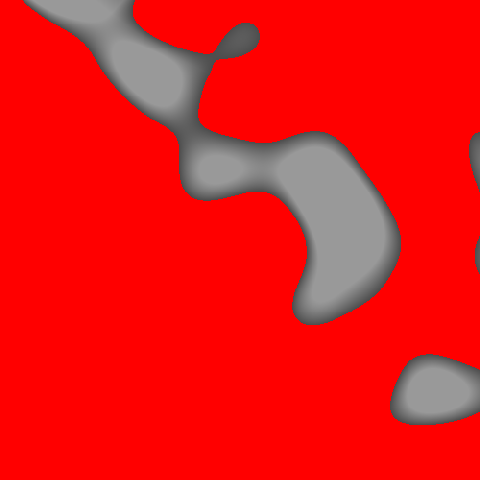
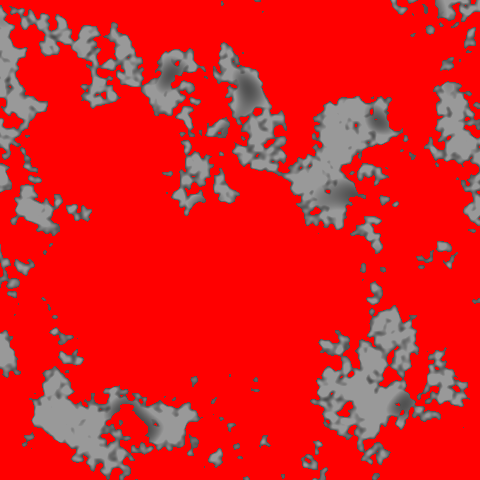
Ore Generation Prototype Finalization

diff --git a/src/main/java/com/igteam/immersivegeology/common/world/gen/carver/WorleyOreCarver.java b/src/main/java/com/igteam/immersivegeology/common/world/gen/carver/WorleyOreCarver.java
@@ -39,7 +39,7 @@ public class WorleyOreCarver
 	public static WorleyOreCarver INSTANCE = new WorleyOreCarver();
 
 	public WorleyOreCarver()
-	{
+	{ 
 	}
 
 	public void setupNewLayer(Random seedGenerator, EnumOreBearingMaterials oreMaterial, int offset)
@@ -47,15 +47,16 @@ public class WorleyOreCarver
 		if(!oreNoiseArray.containsKey(oreMaterial.toString().toLowerCase()))
 		{
 
-			OpenSimplexNoise oreNoiseWorley = new OpenSimplexNoise(seedGenerator.nextLong()+offset);
+			OpenSimplexNoise oreNoiseWorley = new OpenSimplexNoise(seedGenerator.nextLong() + offset);
+			OpenSimplexNoise oreNoiseWorleySub = new OpenSimplexNoise(seedGenerator.nextLong() + offset + 1);
 
 			//this is to make ore veins less common (without this it's way too common)
 			INoise3D oreNoiseSub = (x, y, z) -> {
-				return oreNoiseWorley.flattened(0.4f, 1f).noise(x/(FEATURE_SIZE*5), y/(FEATURE_SIZE*5), z/(FEATURE_SIZE*5));
+				return oreNoiseWorleySub.flattened(0.4f, 1f).octaves(1, 0.75f).noise(x/(FEATURE_SIZE*5), y/(FEATURE_SIZE*5), z/(FEATURE_SIZE*5));
 			};
 
 			INoise3D oreNoise = (x, y, z) -> {
-				return oreNoiseWorley.flattened(0f, 1f).octaves(3, 0.95f).noise(x/FEATURE_SIZE, y/FEATURE_SIZE, z/FEATURE_SIZE);
+				return oreNoiseWorley.flattened(0f, 1f).octaves(3, 0.8f).noise(x/FEATURE_SIZE, y/FEATURE_SIZE, z/FEATURE_SIZE);
 			};
 
 
@@ -181,21 +182,20 @@ public class WorleyOreCarver
 
 												int totHeight = 256;
 												float finalNoise = NoiseUtil.lerp(section[x0+16*z0], prevSection[x0+16*z0], 0.25f*y0);
-												float shrinkValue = 0.2f;
-
 												//change height fade value so we get less ores the higher up we are
 
 												int topOfLayer = (totHeight*currentLayer)/totalLayerCount;
 												int bottomOfLayer = (((totHeight*currentLayer)/totalLayerCount)-((totHeight*currentLayer)/totalLayerCount)/currentLayer);
 
-												if((yPos <= topOfLayer)&&
-														(yPos >= bottomOfLayer))
+												if((yPos > (topOfLayer * 0.66))) {
+													float dif = (float) ((yPos - (topOfLayer * 0.66)) / topOfLayer);
+													heightFadeValue = 1 - dif;
+												} 
+												
+												if((yPos <= topOfLayer) && (yPos >= bottomOfLayer))
 												{
-
-													heightFadeValue = yPos > HEIGHT_FADE_THRESHOLD?1-(shrinkValue*(1+((yPos-HEIGHT_FADE_THRESHOLD)/HEIGHT_FADE_THRESHOLD))): 1;
-
 													replacementState = IGBlockGrabber.grabOreBlock(MaterialUseType.ORE_BEARING, baseMaterial, oreMaterial).getDefaultState().with(IGProperties.NATURAL, true);
-
+													
 													//Run spawn in here to avoid creating ore outside of OUR layer.
 													finalNoise *= heightFadeValue;
 
@@ -207,18 +207,18 @@ public class WorleyOreCarver
 														{
 															richness = 3; // DENSE
 														}
-														else if(finalNoise >= NOISE_THRESHOLD+(1-NOISE_THRESHOLD)*0.65)
+														else if(finalNoise >= NOISE_THRESHOLD+(1-NOISE_THRESHOLD)*0.45)
 														{
 															richness = 2; // RICH
 														}
-														else if(finalNoise >= NOISE_THRESHOLD+(1-NOISE_THRESHOLD)*0.35)
+														else if(finalNoise >= NOISE_THRESHOLD+(1-NOISE_THRESHOLD)*0.3)
 														{
 															richness = 1; // NORMAL
 														}
 														else
 														{
 															richness = 0;
-														}
+														} 
 
 														// Create cave if possible
 														BlockState originalState = chunkIn.getBlockState(pos);

diff --git a/src/main/java/com/muddykat/noise/NoiseGenTester.java b/src/main/java/com/muddykat/noise/NoiseGenTester.java
@@ -56,16 +56,16 @@ public class NoiseGenTester {
 
 	    public static void main(String[] args){
 	    	double iStart=0;
-	        double iEnd=500;
+	        double iEnd=5000;
 	        double jStart=0;
-	        double jEnd=500;
+	        double jEnd=5000;
 	        int chunkAmount = 30;
-	        long seed = 100;
+	        long seed = 105;
 	        
-	        INoise2D noise = new SimplexNoise2D(seed).flattened(0.4f, 1f).spread(0.001f);
+	        INoise2D noise = new SimplexNoise2D(seed + 1).octaves(1, 0.75f).flattened(0.4f, 1f).spread(0.001f);
 	        
-	        INoise2D noise2 = new SimplexNoise2D(seed).octaves(3, 0.95f).spread(0.005f).flattened(0f, 1);
-	       
+	        INoise2D noise2 = new SimplexNoise2D(seed).octaves(6, 0.8f).spread(0.008f).flattened(0f, 1);
+	         
 	        double[][] result=new double[16 * chunkAmount][16 * chunkAmount];
  
 	        for(int i=0;i< (16 * chunkAmount);i++){
@@ -73,7 +73,7 @@ public class NoiseGenTester {
 	                int xp=(int)(iStart+i*((iEnd-iStart)/(16 * chunkAmount)));
 	                int yp=(int)(jStart+j*((jEnd-jStart)/(16 * chunkAmount)));
 	                
-	                result[i][j]=noise2.sub(noise).noise(xp, yp);
+	                result[i][j]=noise2.sub(noise).noise(xp, yp); 
 	            }    
 	        }
 	            

diff --git a/src/main/java/com/igteam/immersivegeology/common/world/layer/WorldLayerData.java b/src/main/java/com/igteam/immersivegeology/common/world/layer/WorldLayerData.java
@@ -37,6 +37,7 @@ public class WorldLayerData
 			mountains.addMachineOre(id, 0.35f, EnumOreBearingMaterials.Cuprite);
 			mountains.addMachineOre(id, 0.15f, EnumOreBearingMaterials.Uraninite);
 		}
+		
 		mountains.settleLayers();
 
 		lush_mountains.addLayer(IGBlockGrabber.grabBlock(MaterialUseType.ROCK, EnumMaterials.Limestone.material));
@@ -90,8 +91,8 @@ public class WorldLayerData
 
 		badlands.addLayer(IGBlockGrabber.grabBlock(MaterialUseType.ROCK, EnumMaterials.Basalt.material));
 		badlands.addMachineOre(2, 0.25f, EnumOreBearingMaterials.Uraninite);
-		badlands.addMachineOre(2, 0.30f, EnumOreBearingMaterials.Ilmenite);
-		badlands.addMachineOre(2, 0.30f, EnumOreBearingMaterials.Hubnerite);
+		badlands.addMachineOre(2, 0.50f, EnumOreBearingMaterials.Ilmenite);
+		badlands.addMachineOre(2, 0.60f, EnumOreBearingMaterials.Hubnerite);
 
 		badlands.addLayer(IGBlockGrabber.grabBlock(MaterialUseType.ROCK, EnumMaterials.Basalt.material));
 

diff --git a/src/main/java/com/igteam/immersivegeology/common/world/chunk/ChunkGeneratorImmersiveOverworld.java b/src/main/java/com/igteam/immersivegeology/common/world/chunk/ChunkGeneratorImmersiveOverworld.java
@@ -88,7 +88,7 @@ public class ChunkGeneratorImmersiveOverworld extends ChunkGenerator<ImmersiveGe
 			WorleyOreCarver.INSTANCE.setupNewLayer(seedGenerator, ore, offset);
 			offset++;
 		}
-
+ 
 		this.chunkDataProvider = new ChunkDataProvider(world, settings, seedGenerator);
 	}
 

diff --git a/src/main/java/com/igteam/immersivegeology/common/world/noise/INoise3D.java b/src/main/java/com/igteam/immersivegeology/common/world/noise/INoise3D.java
@@ -79,7 +79,7 @@ public interface INoise3D
 	{
 		return (x, y, z) -> INoise3D.this.noise(x, y, z)-other.noise(x, y, z);
 	}
-
+	
 	default INoise3D map(FloatUnaryFunction mappingFunction)
 	{
 		return (x, y, z) -> mappingFunction.applyAsFloat(INoise3D.this.noise(x, y, z));
